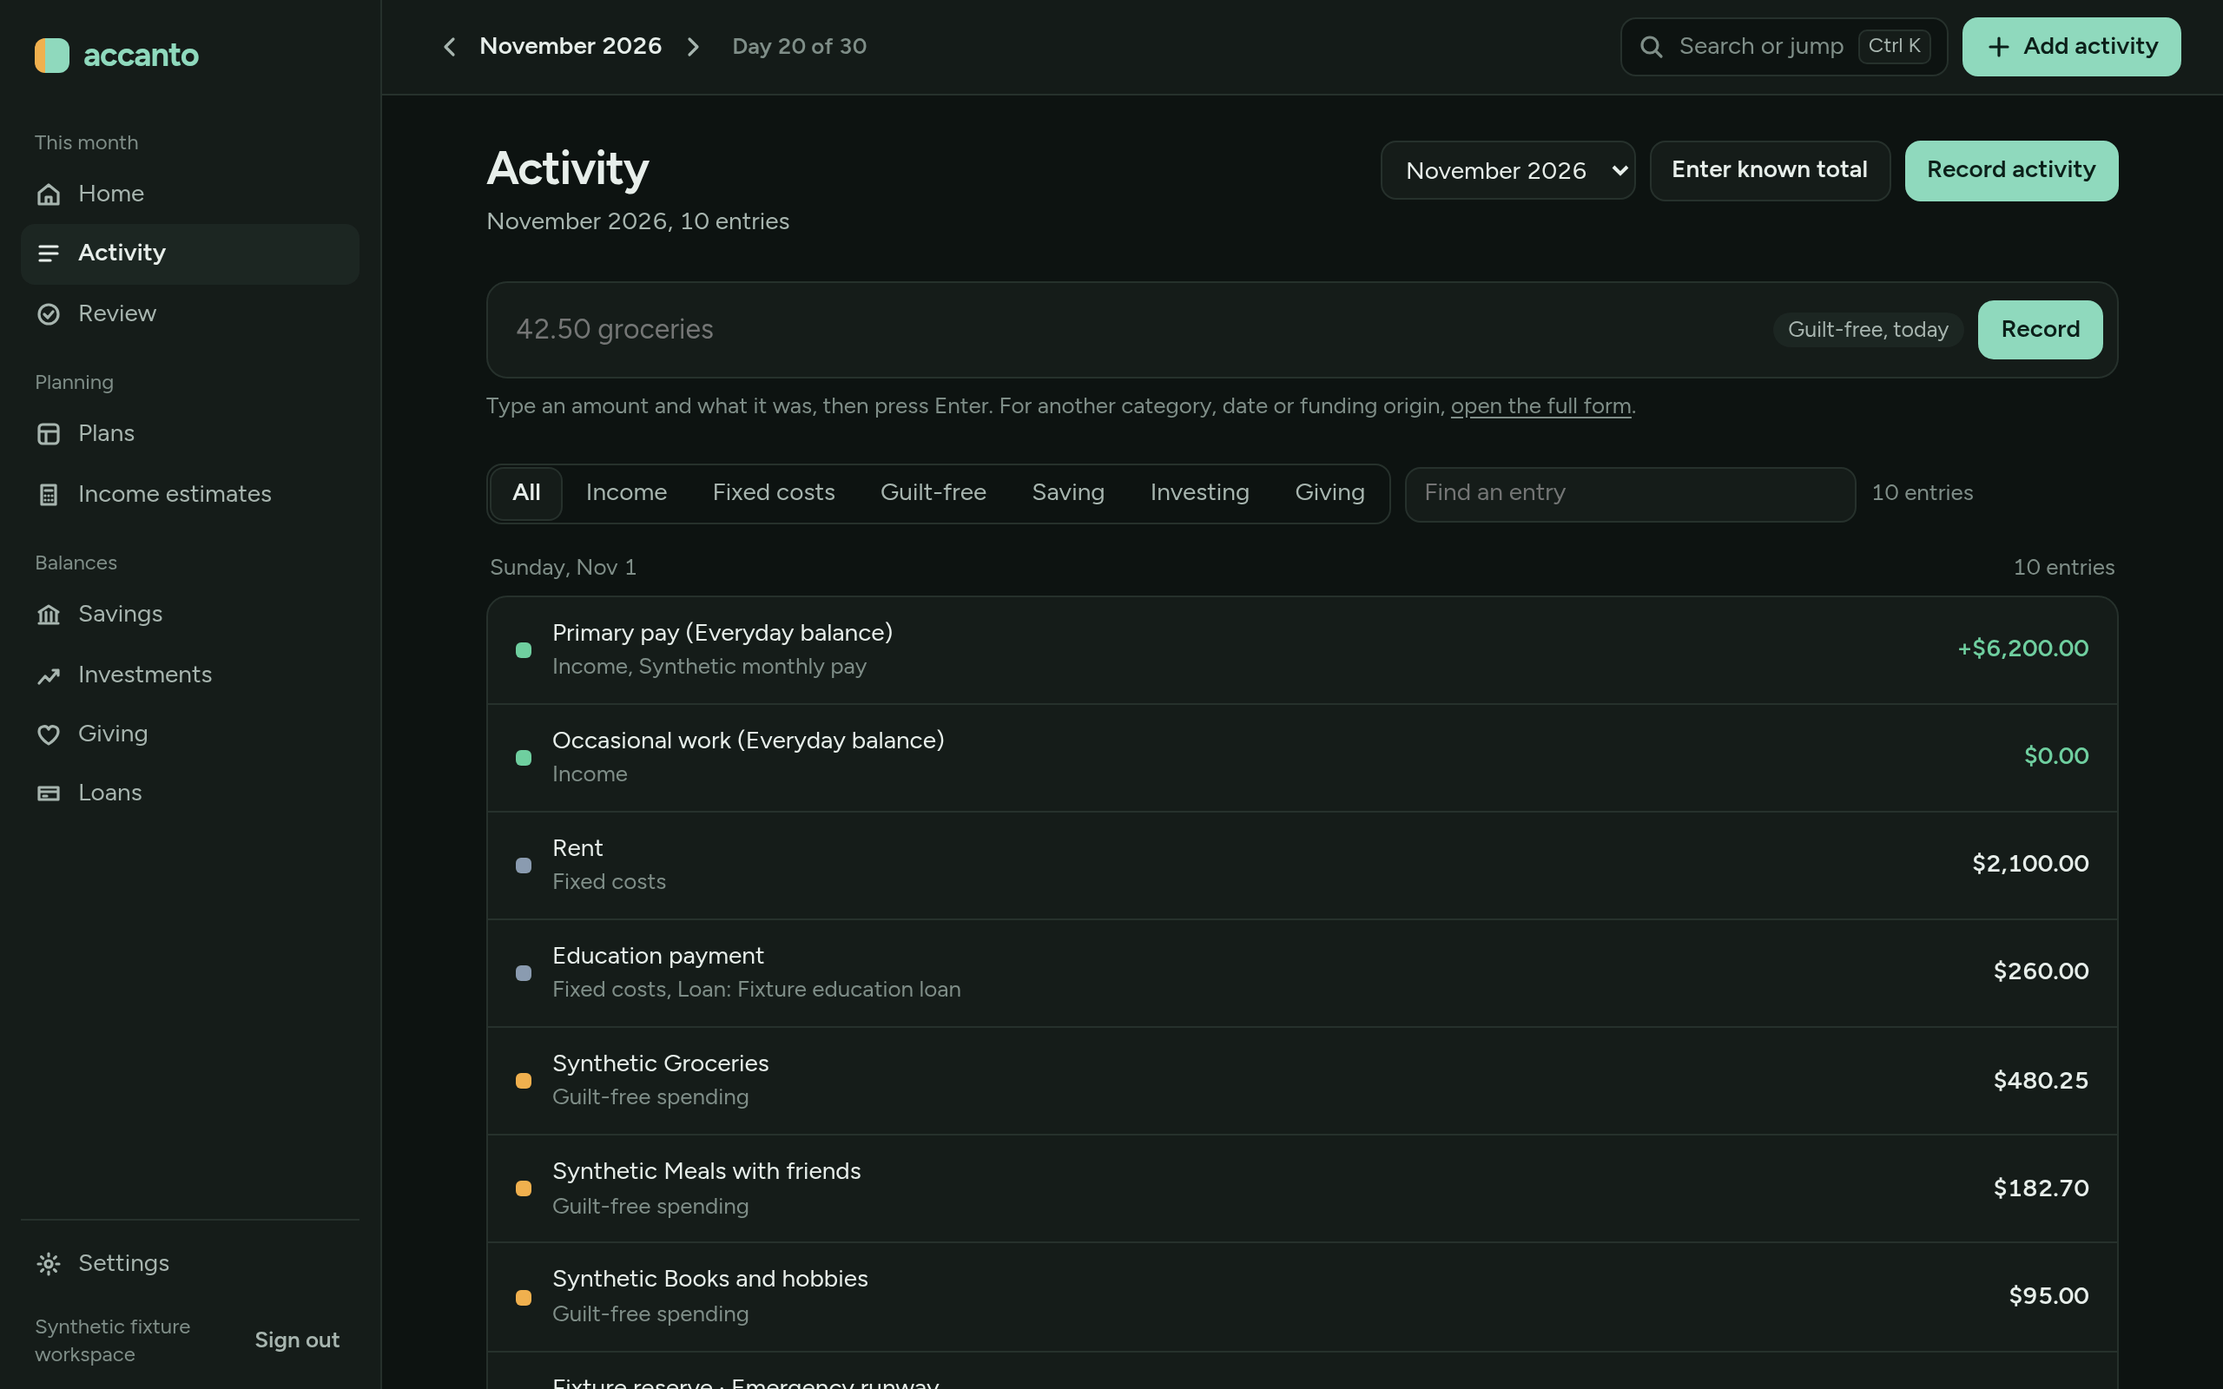
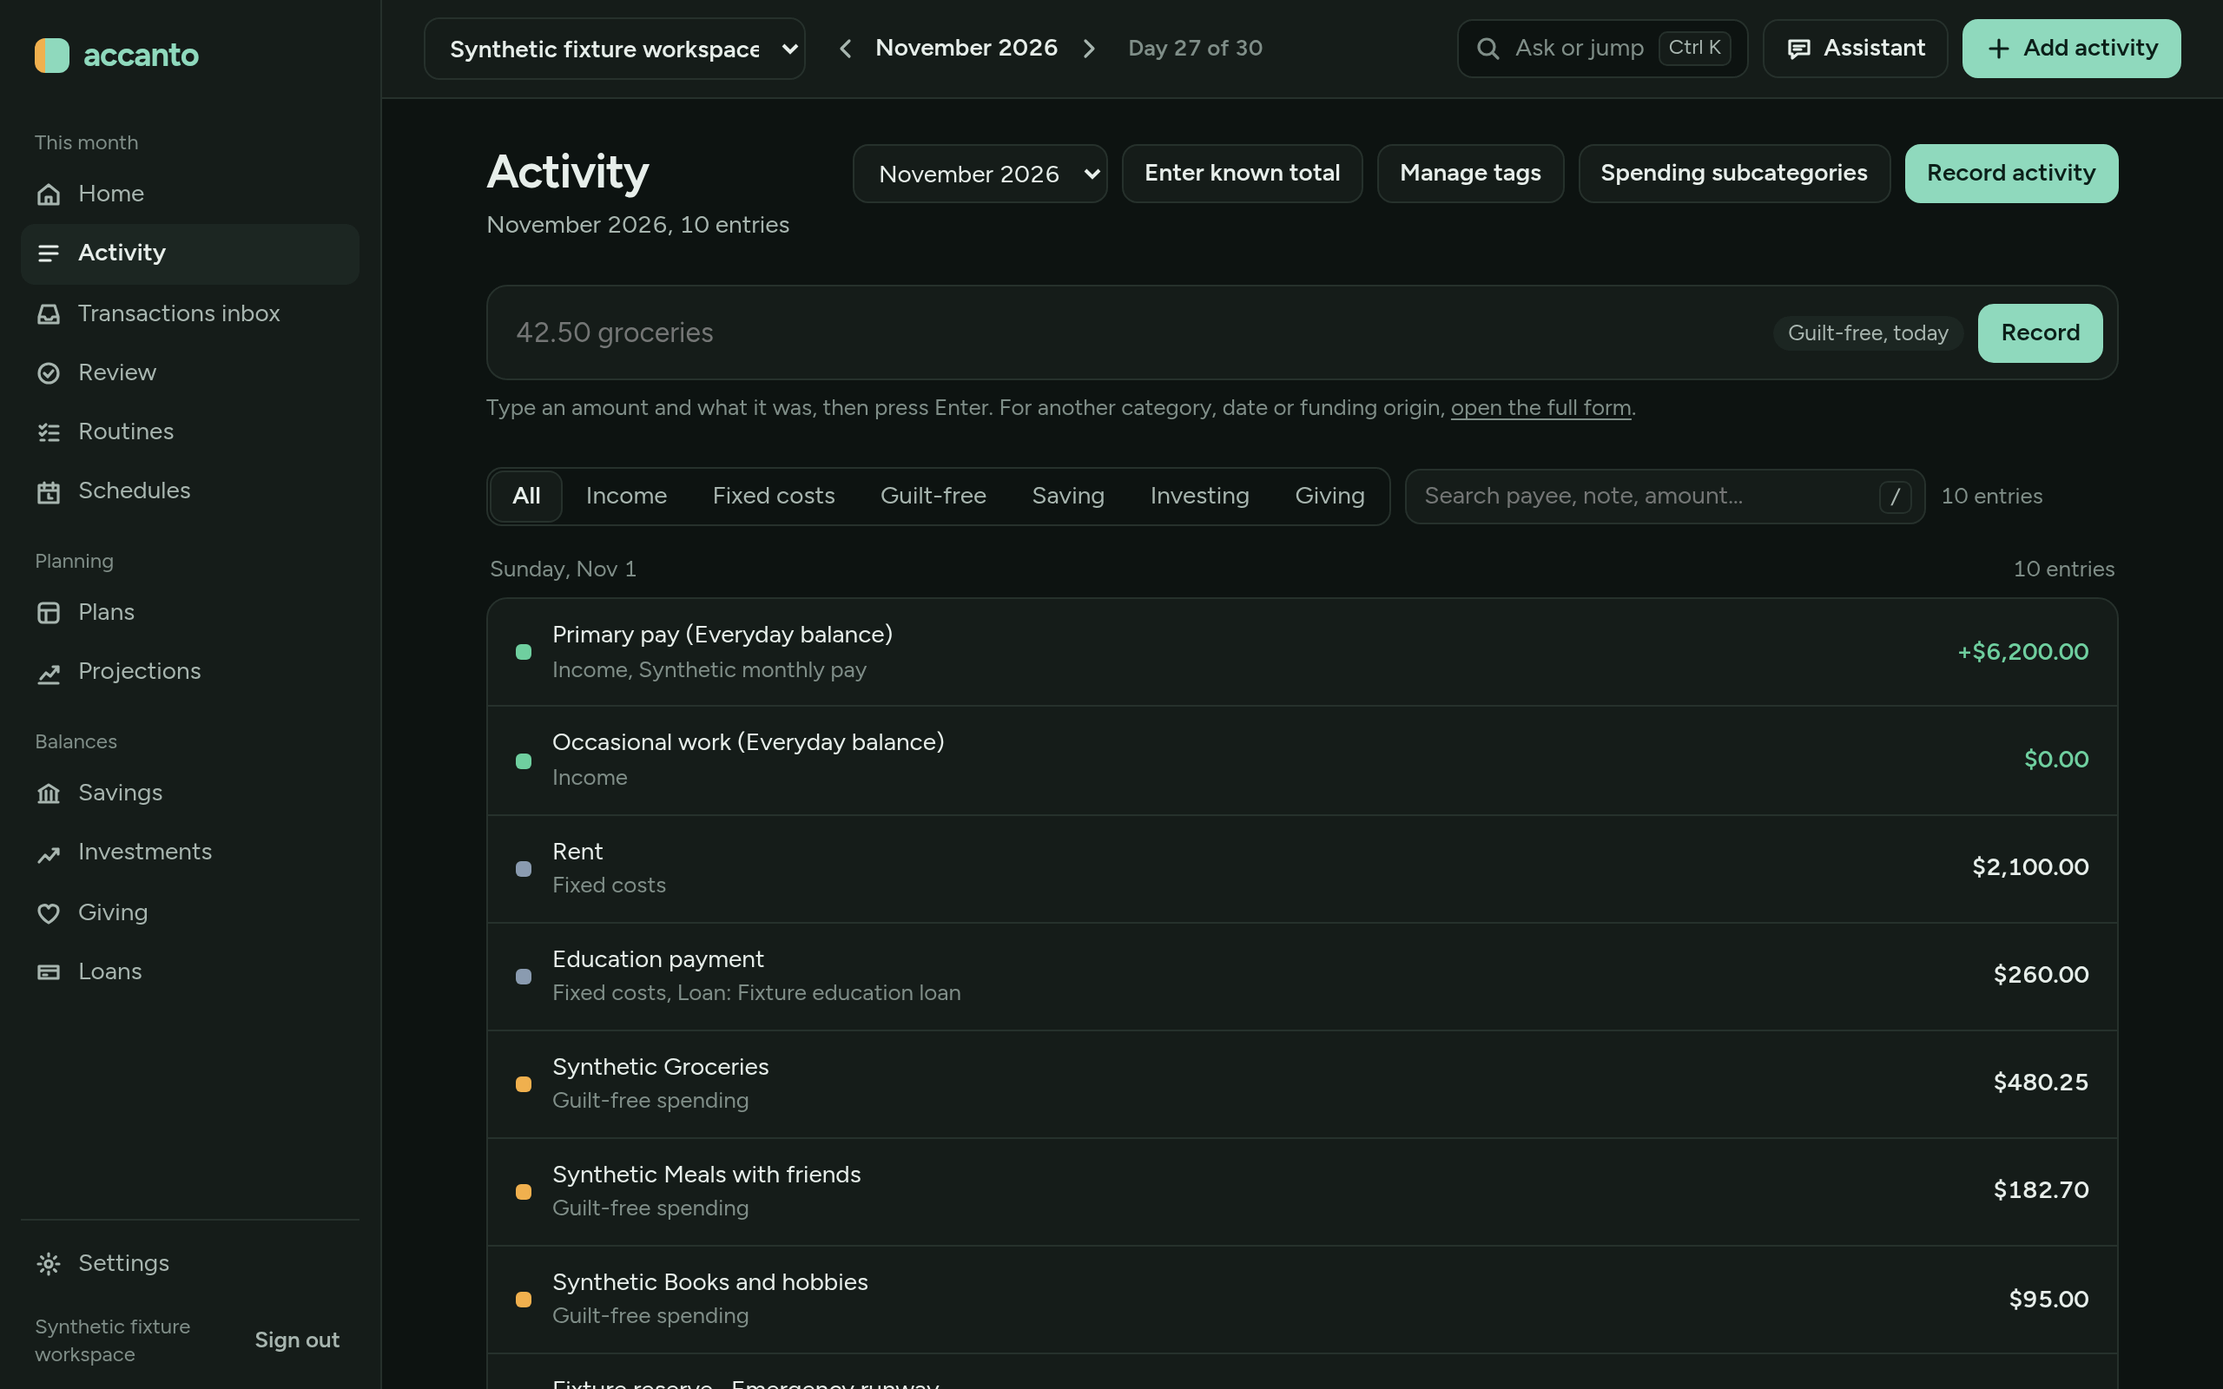
docs: refresh the README and every screenshot
The README is shorter and lists what the workspace does now: the
Transactions inbox (YNAB and scheduled entries, search, notes, batch
recording, flow mode), Routines, Projections with a FIRE date in today's or
future dollars, loan payoff schedules, the assistant and MCP, and the phone
tabs. It drops Income Estimates and the long prototype and test notes.
The development guide's navigation paragraph and the product brief's
delivery status match the code.

All 39 screenshots were retaken on 93211f7 from the synthetic
managing-fixtures workspace, with the fake YNAB server connected and a
synthetic routine, schedule, investment value and FIRE assumptions added
through the API. Inbox, Routines, Schedules and Projections are new. PNG
metadata is stripped and colors reduced to 256.

Amp-Thread-ID: https://ampcode.com/threads/T-01a21e0d-bb0b-7049-98d0-84e322fbf602

diff --git a/README.md b/README.md
@@ -1,30 +1,39 @@
 # Accanto
 
 A financial companion for planning a rich life: conscious spending, giving,
-experiences, saving, and financial independence.
+experiences, saving and financial independence.
 
-Accanto helps you decide where each month's money should go, record where it
-actually went, and review the difference, without blurring what you intended,
-what you received, what you contributed and what you hold.
+Plan where each month's money goes, record where it went, and review the difference.
 
-- **Plan** each month: income, fixed costs, guilt-free spending, giving, savings
-  goals and investments. Saved versions never change, so you can compare scenarios.
-- **Record** dated activity once, with where the money came from. Refunds land in
-  their own month and restore their original funding.
-- **Review** the month against the Plan you chose, and see on Home what needs attention.
-- **Keep track** of savings goals, investments, giving recipients and loans.
+- **Plan** each month: income, fixed costs, guilt-free spending, giving, saving and
+  investing. Saved versions never change, so you can compare them.
+- **Record** activity by hand, or accept it from the **Transactions inbox**: YNAB
+  transactions and your own scheduled entries wait there until you record them.
+  Search it, add notes, record several at once, or work through it in flow mode.
+- **Review** each month against the Plan you chose. Home shows what needs you.
+- **Track** savings goals, investments, giving and loans, including loan payoff
+  schedules.
+- **Project** net worth and a FIRE date, in today's or future dollars.
+- **Routines** are checklists on a schedule, such as a Saturday money check.
+- **Ask the assistant**, with several conversations kept, or connect your own agent
+  over [MCP](docs/technical/mcp-clients.md). Agents can also read and change safe
+  settings.
+
+On a phone the tabs are Home, Inbox, Assistant, Activity and More.
 
 ![Home in the light theme](docs/screenshots/home-light.png)
 
+![Transactions inbox in the light theme](docs/screenshots/inbox-light.png)
+
 ![Review in the dark theme](docs/screenshots/review-dark.png)
 
-Both screenshots use synthetic fixture data. See
-[every screen in light, dark and at 390 px](docs/screenshots/README.md).
+The screenshots use synthetic fixture data.
+[See every screen in light, dark and at 390 px](docs/screenshots/README.md).
 
 ## Try it in two minutes
 
-Storybook renders every screen with the same synthetic data, with no backend,
-database or sign-in. It needs Node 22+, pnpm and just.
+Storybook shows every screen with synthetic data. It needs no backend, database or
+sign-in, just Node 22+, pnpm and just.
 
 ```sh
 git clone https://github.com/mattjmcnaughton/accanto.git
@@ -34,41 +43,18 @@ just storybook-fe
 ```
 
 Open http://localhost:6006 and start with **Screens → Home**. The toolbar switches
-to the dark theme and the phone width. To run the real app with Postgres and
-sign-in, follow [full-stack local development](#full-stack-local-development).
+to the dark theme and the phone width.
 
 ## Status
 
-Accanto is a personal alpha: one owner, one Entity, USD only, with no public sign-up.
-The production frontend uses browser sign-in and the authenticated API, with
-Postgres persistence. Estimate results are copied into Plans by hand; there is no
-live link. Coverage and outstanding release gates are recorded in the
-[readiness matrix](docs/technical/release-readiness.md).
-See [API usage](docs/api.md) and [browser configuration](docs/development.md#browser-identity-setup-manual-provider-configuration).
+A personal alpha: one owner, USD only, no public sign-up. It runs on an Amp Box
+([Box operations](docs/technical/box-operations.md)). The
+[readiness matrix](docs/technical/release-readiness.md) lists what is covered and
+what is still open.
 
-Running the real workspace needs the full-stack setup below, configured browser
-authentication and a provisioned identity; the development guide has a local signed
-provider fixture for isolated synthetic testing. The UI reports an unavailable
-backend or sign-in explicitly; it never falls back to browser-local financial data.
+## Run it locally
 
-The accepted browser-local design
-[prototype remains available as standalone HTML](docs/product/daily-workspace-prototype.html),
-with its [walkthrough](docs/product/prototype-review.md). It is a legacy reference,
-not the active frontend, and its committed HTML is not rebuilt from the production
-application. The prototype's browser data and saved Plan versions are left in
-place. Browser storage belongs to its origin: `localhost`, `127.0.0.1`, different
-ports, and a standalone file can each have different data access. Keep private
-exports and recordings outside the checkout.
-
-## Stack
-
-Like Aleph, Accanto uses FastAPI, a React/TypeScript frontend under the Python
-package, and Postgres with SQLAlchemy and Alembic. Vite proxies backend requests
-in development; FastAPI serves the built frontend in production.
-
-## Full-stack local development
-
-Requires Python 3.12+, uv, Node 22+, pnpm 11.21.0, just, and Docker.
+Needs Python 3.12+, uv, Node 22+, pnpm 11.21.0, just and Docker.
 
 ```sh
 uv sync --dev
@@ -81,36 +67,21 @@ just dev
 
 - Frontend: http://localhost:5173
 - Backend and API docs: http://localhost:8000/docs
-- Liveness: `/healthz`; database/schema readiness: `/readyz`
-- Postgres: localhost:5433 (kept separate from the usual 5432 port)
+- Postgres: localhost:5433
 
-`just dev-be` and `just dev-fe` start either server individually. Ctrl-C stops
-both servers started by `just dev`. `docker compose stop` stops Postgres while
-preserving its data. The checked-in database credentials are for local use only.
+Signing in needs an identity provider. For local testing, use the synthetic provider
+in [Development](docs/development.md#disposable-browser-acceptance-fixture). The
+[`managing-fixtures` skill](skills/managing-fixtures/SKILL.md) seeds a synthetic
+workspace to explore.
 
-## Verification
+## Checks
 
 ```sh
-just gate
+just gate              # format, lint, types, unit tests
+just gate-expensive    # plus integration and browser tests (needs Postgres)
 ```
 
-Checks formatting, linting, types, the frontend build, and backend and frontend
-unit tests. For frontend-only changes, use `just gate-fe`. Component tests cover
-source identity, Review selection, unknown values, retry identity and session recovery.
-Local agent-browser acceptance covers the real API/Postgres monthly journey using
-synthetic data; the prototype browser suite is retired. Hosted provider compatibility
-remains a manual release check.
-Backend integration tests exercise the monthly API against an explicitly configured local
-test database; see [development](docs/development.md). The real browser journey
-uses that API and a local signed OIDC fixture; it does not establish hosted identity
-compatibility.
-
-The backend tests cover liveness, frontend deep-link serving, and preserving
-404 responses for missing APIs and assets, plus pure Decimal domain rules. The
-initial migration includes typed monthly records, credentials, audit and retry
-outcomes; real Postgres checks cover concurrency, authorization and rollback.
-
-## Container build
+## Container
 
 ```sh
 docker build -t accanto:local .
@@ -119,27 +90,15 @@ docker run --rm -p 8000:8000 \
   accanto:local
 ```
 
-The image builds React and runs FastAPI as a non-root user. It serves the production
-workspace and API. Supply the browser authentication settings described in the
-development guide. Run migrations using
-`alembic upgrade head` inside the image against the same database before startup.
-The image configures no browser identity provider, hosted MCP, or AI provider.
-Use a separate restricted database runtime role as described in the API guide.
-[Deployment and recovery](docs/technical/deployment.md) records compatible rollback
-and provider evidence requirements; it does not authorize deployment. The personal
-alpha runs on an Amp Box, described in [Box operations](docs/technical/box-operations.md).
+Run `alembic upgrade head` against the database first, and supply the sign-in
+settings from [Development](docs/development.md#browser-identity-setup-manual-provider-configuration).
+See [Deployment and recovery](docs/technical/deployment.md).
 
-## Product and architecture
+## More
 
-- [Product brief](docs/product/brief.md): current direction and delivery status.
-- [MVP PRD](docs/prd/01-mvp.md): agreed requirements, prototype coverage and deferrals.
-- [MVP TDD](docs/tdds/01-mvp.md): technical design and production enforcement.
-- [MVP tickets](docs/technical/tickets/01-mvp.md): implementation order, dependencies
-  and acceptance criteria, beginning with a fresh production frontend.
-- [Domain context](CONTEXT.md): shared financial language.
-- [Architecture](docs/architecture.md): package structure and conventions.
-- [Development](docs/development.md): commands and local environment.
+- [Product brief](docs/product/brief.md): direction and status
+- [Domain context](CONTEXT.md): what the financial words mean
+- [Architecture](docs/architecture.md) and [Development](docs/development.md)
+- [API](docs/api.md) and [MCP clients](docs/technical/mcp-clients.md)
 
-Scaffolded from `python-web` and composed `frontend-react` at template commit
-`72a28b9be899c6ccd39f06f8482d55e460556acd`. Copier answers are stored with each
-component. MIT licensed.
+FastAPI, React/TypeScript and Postgres. MIT licensed.

diff --git a/docs/screenshots/README.md b/docs/screenshots/README.md
@@ -1,17 +1,26 @@
 # Screenshots
 
 Every screen of the workspace in the light theme, the dark theme, and at 390 px wide.
-They were captured on November 20, 2026 from the production frontend running against
-the synthetic `managing-fixtures` workspace ("Synthetic fixture workspace"). They
-contain no personal financial data. Retake them from the same fixtures when a
-screen changes. Never capture them from a real workspace.
+They were captured on November 27, 2026 from the production frontend running against
+the synthetic `managing-fixtures` workspace ("Synthetic fixture workspace"), with the
+fake YNAB server (`tests/fakes/ynab_server.py`) connected through Settings, and a
+synthetic routine, schedule, investment value and FIRE assumptions added through
+the API. They contain no personal financial data. Retake them from the same
+fixtures when a screen changes. Never capture them from a real workspace.
+
+Desktop captures are 1280 × 800 and phone captures 390 × 844, both at 2x, with
+metadata stripped and colors reduced to 256.
 
 | Screen | Light | Dark | 390 px |
 | --- | --- | --- | --- |
 | Home | [light](home-light.png) | [dark](home-dark.png) | [390 px](home-phone.png) |
 | Activity | [light](activity-light.png) | [dark](activity-dark.png) | [390 px](activity-phone.png) |
+| Transactions inbox | [light](inbox-light.png) | [dark](inbox-dark.png) | [390 px](inbox-phone.png) |
 | Review | [light](review-light.png) | [dark](review-dark.png) | [390 px](review-phone.png) |
+| Routines | [light](routines-light.png) | [dark](routines-dark.png) | [390 px](routines-phone.png) |
+| Schedules | [light](schedules-light.png) | [dark](schedules-dark.png) | [390 px](schedules-phone.png) |
 | Plans | [light](plans-light.png) | [dark](plans-dark.png) | [390 px](plans-phone.png) |
+| Projections | [light](projections-light.png) | [dark](projections-dark.png) | [390 px](projections-phone.png) |
 | Savings | [light](savings-light.png) | [dark](savings-dark.png) | [390 px](savings-phone.png) |
 | Investments | [light](investments-light.png) | [dark](investments-dark.png) | [390 px](investments-phone.png) |
 | Giving | [light](giving-light.png) | [dark](giving-dark.png) | [390 px](giving-phone.png) |

diff --git a/docs/development.md b/docs/development.md
@@ -49,8 +49,9 @@ reconciliation. Session recovery opens a separate sign-in window and verifies th
 same User through `/api/auth/session` before retrying with fresh CSRF. This memory
 is cleared on explicit logout and does not survive closing or reloading the tab.
 The workspace shell has a sidebar grouped by job (This month: Home, Activity,
-Review; Planning: Plans; Balances: Savings, Investments, Giving,
-Loans; then Settings) and, below 760 px, five tabs with More for the rest. Every
+Transactions inbox, Review, Routines, Schedules; Planning: Plans, Projections;
+Balances: Savings, Investments, Giving, Loans; then Settings) and, below 760 px,
+the tabs Home, Inbox, Assistant, Activity and More, which lists the rest. Every
 screen has its own hash address, such as `#/giving`. Home, Activity and Review share
 the month chosen in the top bar, kept in the address as `?m=YYYY-MM` when it is not
 the Entity's current month. With several Entities the address also carries
@@ -61,8 +62,7 @@ any screen. Keys: Ctrl/⌘ K opens the Ask bar, which jumps to a screen, runs a 
 to the assistant; N adds activity, [ and ] change the month, J and K move through rows,
 and ? lists the shortcuts. Edit forms open in dialogs; a failed save's recovery
 notice appears inside the open dialog. The theme choice lasts until reload.
-Estimates save per-payment assumptions and show server-calculated monthly line and
-combined results; manually copy a result into a Plan. Save a draft before saving an
+Save a draft before saving an
 immutable version. Activity is independent of Reviews; starting a Review visibly
 preselects the immediately previous month's comparison or requires an explicit
 choice. The delivered activity categories include income, fixed costs, guilt-free spending,

diff --git a/docs/product/brief.md b/docs/product/brief.md
@@ -63,10 +63,12 @@ financial commands are subsequent increments. Real
 provider configuration and hosted compatibility verification remain manual.
 The UI must use the same application behavior as direct API access.
 
-Advanced income matching, dedicated restoration UI, annual Plans/Reviews,
-credit-card settlement, split funding, tax estimation, FIRE projections and AI
-features remain deferred. Read-only import into the Transactions inbox, starting
-with YNAB, is in scope. Other bank ingestion, write-back to sources, and payment
+Since then the workspace has added the Transactions inbox (read-only YNAB import
+and scheduled entries, with search, notes, batch recording and flow mode),
+Routines, Projections with a FIRE date in today's or future dollars, loan payoff
+schedules, and the built-in assistant and MCP access. Income Estimates were
+removed. Advanced income matching, dedicated restoration UI, annual Plans/Reviews,
+credit-card settlement, split funding and tax estimation remain deferred. Other bank ingestion, write-back to sources, and payment
 execution remain deferred. Earlier household-loop and
 information-architecture experiments are superseded; the daily-workspace prototype
 is the single current interaction reference. No additional workflow interview is
